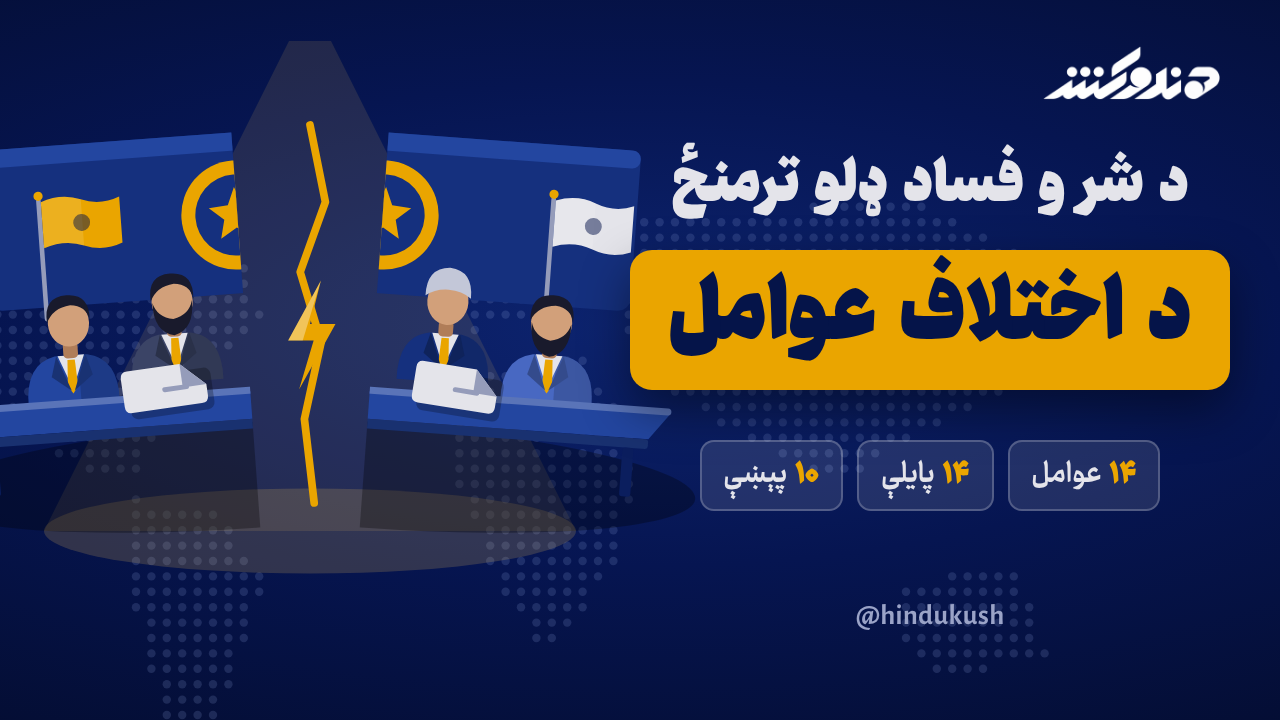
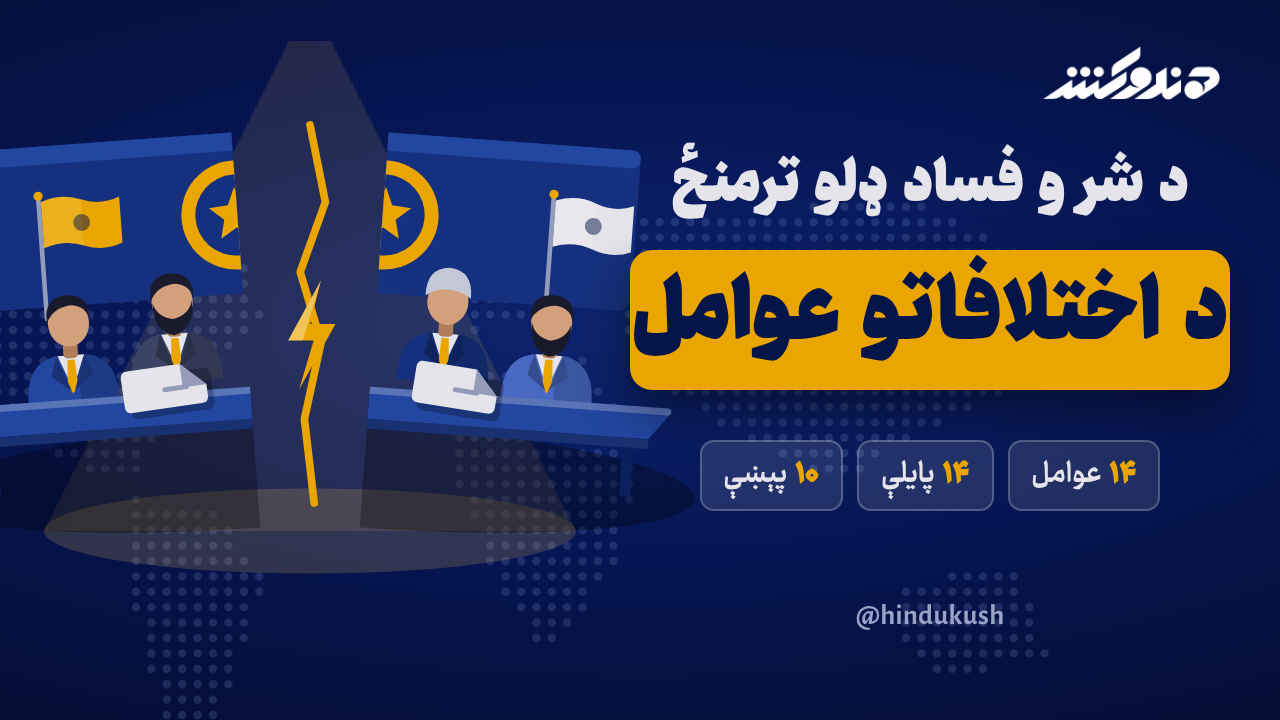
Thumbnail: اختلافاتو; add Premiere Pro (FCP7 XML) project
Claude-Session: https://claude.ai/code/session_012xmx1QFbRzFVX6hho4NcQS

Changed region(s): [[0.4688, 0.3361, 0.9688, 0.5194]]

diff --git a/ikhtilaf-pashto/thumbnail/thumbnail.html b/ikhtilaf-pashto/thumbnail/thumbnail.html
@@ -46,7 +46,7 @@
   map(V, { left: "-360px", top: "560px", width: "1800px", height: "900px" });
   logo(V, { left: "60px", top: "64px", height: "74px" });
   el(V, "h1", { left: "50px", right: "50px", top: "230px", fontSize: "86px" }, "د شر و فساد ډلو ترمنځ");
-  el(V, "band", { left: "70px", right: "70px", top: "370px", height: "190px", fontSize: "128px", borderRadius: "26px", boxShadow: "0 24px 60px rgba(0,0,0,.45)" }, "د اختلاف عوامل");
+  el(V, "band", { left: "70px", right: "70px", top: "370px", height: "190px", fontSize: "128px", borderRadius: "26px", boxShadow: "0 24px 60px rgba(0,0,0,.45)" }, "د اختلافاتو عوامل");
   ill(V, { left: "-40px", top: "610px", width: "1160px", height: "950px" });
   el(V, "chip", { left: "0", right: "0", top: "1590px", fontSize: "44px" }, "<span><b>۱۴</b> عوامل</span><span><b>۱۴</b> پایلې</span><span><b>۱۰</b> پېښې</span>");
   el(V, "edge", { left: "440px", top: "1748px", width: "200px", height: "8px", borderRadius: "4px" });
@@ -57,7 +57,7 @@
   ill(H, { left: "-40px", top: "60px", width: "700px", height: "620px" });
   logo(H, { right: "60px", top: "46px", height: "54px" });
   el(H, "h1", { right: "50px", width: "600px", top: "150px", fontSize: "62px" }, "د شر و فساد ډلو ترمنځ");
-  el(H, "band", { right: "50px", width: "600px", top: "250px", height: "140px", fontSize: "92px", borderRadius: "22px", boxShadow: "0 20px 50px rgba(0,0,0,.45)" }, "د اختلاف عوامل");
+  el(H, "band", { right: "50px", width: "600px", top: "250px", height: "140px", fontSize: "92px", borderRadius: "22px", boxShadow: "0 20px 50px rgba(0,0,0,.45)" }, "د اختلافاتو عوامل");
   el(H, "chip", { right: "50px", width: "600px", top: "440px", fontSize: "32px" }, "<span><b>۱۴</b> عوامل</span><span><b>۱۴</b> پایلې</span><span><b>۱۰</b> پېښې</span>");
   el(H, "h1", { right: "50px", width: "600px", top: "600px", fontSize: "30px", color: "#9aa3c7", direction: "ltr", fontWeight: "700" }, "@hindukush");
   document.fonts.ready.then(() => (window.__ready = true));

diff --git a/ikhtilaf-pashto/tools/premiere_xml.py b/ikhtilaf-pashto/tools/premiere_xml.py
@@ -1,0 +1,38 @@
+# Writes premiere/Ikhtilaf_Pashto_Premiere.xml (Final Cut Pro 7 XML, imports into Adobe Premiere Pro).
+# V1 = rendered video (picture only); A1 voiceover, A2 music bed, A3 sound effects; one marker per scene.
+import json, re, os, subprocess
+from xml.sax.saxutils import escape
+HERE = os.path.dirname(os.path.abspath(__file__)); ROOT = os.path.abspath(os.path.join(HERE, ".."))
+FPS = 30
+html = open(os.path.join(ROOT, "index.html"), encoding="utf-8").read()
+SC = json.loads(re.search(r"const D = (\[.*?\]);\n", html, re.S).group(1))
+def dur(p): return float(subprocess.run(["ffprobe", "-v", "error", "-show_entries", "format=duration", "-of", "csv=p=0", p], capture_output=True, text=True).stdout)
+F = lambda s: int(round(s * FPS))
+END = F(SC[-1]["t1"])
+RATE = f"<rate><timebase>{FPS}</timebase><ntsc>FALSE</ntsc></rate>"
+media = {"video": "renders/ikhtilaf-pashto.mp4", "vo": "assets/audio/voiceover.mp3", "music": "assets/audio/music.m4a", "sfx": "assets/audio/sfx.m4a"}
+def fileel(fid, rel, kind):
+    p = os.path.join(ROOT, rel); n = F(dur(p))
+    v = f"<video><samplecharacteristics>{RATE}<width>1080</width><height>1920</height></samplecharacteristics></video>" if kind == "video" else ""
+    return f'<file id="{fid}"><name>{os.path.basename(rel)}</name><pathurl>file://localhost/{escape(p)}</pathurl>{RATE}<duration>{n}</duration><media>{v}<audio><samplecharacteristics><depth>16</depth><samplerate>48000</samplerate></samplecharacteristics><channelcount>2</channelcount></audio></media></file>', n
+def clip(cid, fid, rel, kind, name, track_kind):
+    fx, n = fileel(fid, rel, kind)
+    end = min(n, END)
+    return f'<clipitem id="{cid}"><name>{escape(name)}</name><duration>{n}</duration>{RATE}<start>0</start><end>{end}</end><in>0</in><out>{end}</out>{fx}' + (f"<sourcetrack><mediatype>{track_kind}</mediatype><trackindex>1</trackindex></sourcetrack>") + "</clipitem>"
+markers = ""
+for sc in SC:
+    name = sc.get("head") or ("سرلیک" if sc["kind"] == "intro" else "اوټرو")
+    if sc["kind"] == "item": name = f'{sc["n"]}. {name}'
+    markers += f'<marker><name>{escape(name)}</name><comment>{escape(sc.get("text", "") or "")}</comment><in>{F(sc["t0"])}</in><out>-1</out></marker>'
+v1 = clip("v1", "f-video", media["video"], "video", "Ikhtilaf Pashto (rendered)", "video")
+a = [clip("a1", "f-vo", media["vo"], "audio", "Voiceover", "audio"), clip("a2", "f-music", media["music"], "audio", "Music (very low)", "audio"), clip("a3", "f-sfx", media["sfx"], "audio", "Sound effects", "audio")]
+xml = f'''<?xml version="1.0" encoding="UTF-8"?>
+<!DOCTYPE xmeml>
+<xmeml version="4"><project><name>Ikhtilaf_Pashto — Hindukush</name><children>
+<sequence id="seq"><name>Ikhtilaf Pashto 1080x1920</name><duration>{END}</duration>{RATE}
+<timecode>{RATE}<string>00:00:00:00</string><frame>0</frame><displayformat>NDF</displayformat></timecode>{markers}
+<media><video><format><samplecharacteristics>{RATE}<width>1080</width><height>1920</height><pixelaspectratio>square</pixelaspectratio></samplecharacteristics></format><track>{v1}</track></video>
+<audio><format><samplecharacteristics><depth>16</depth><samplerate>48000</samplerate></samplecharacteristics></format>{"".join(f"<track>{x}</track>" for x in a)}</audio></media>
+</sequence></children></project></xmeml>'''
+open(os.path.join(ROOT, "premiere", "Ikhtilaf_Pashto_Premiere.xml"), "w", encoding="utf-8").write(xml)
+print("ok", END, "frames")

diff --git a/ikhtilaf-pashto/premiere/README.md b/ikhtilaf-pashto/premiere/README.md
@@ -1,0 +1,12 @@
+# Premiere Pro project (FCP7 XML)
+
+Import: Premiere Pro → File → Import → `Ikhtilaf_Pashto_Premiere.xml`.
+
+Sequence 1080×1920, 30 fps, 239.5 s:
+- V1 — `renders/ikhtilaf-pashto.mp4` (the finished animation; picture only)
+- A1 — `assets/audio/voiceover.mp3` (voice)
+- A2 — `assets/audio/music.m4a` (news music, already very low)
+- A3 — `assets/audio/sfx.m4a` (sound effects)
+- One marker per scene, named with the scene heading.
+
+If Premiere asks for missing media, keep the repo folder structure and point it to the `ikhtilaf-pashto` folder (Link Media → search).
